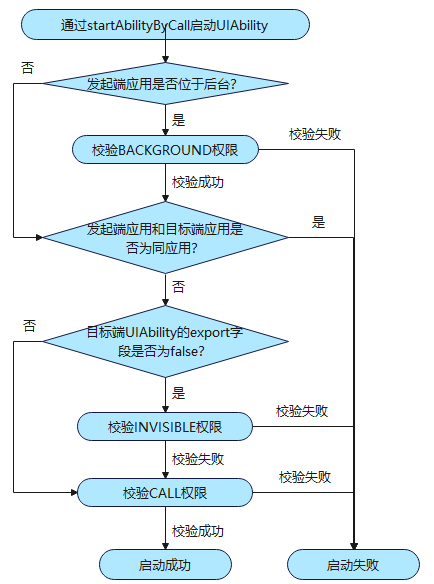
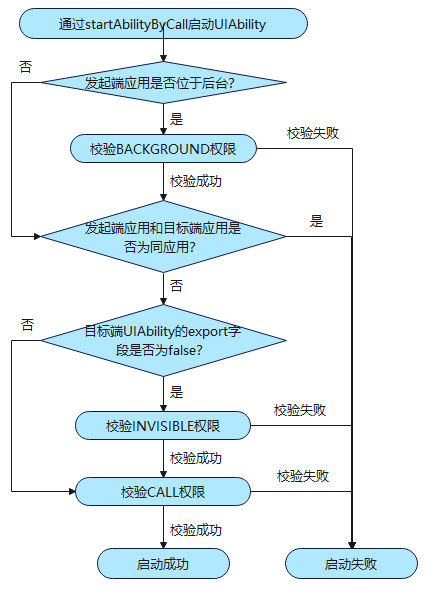
modify

Changed region(s): [[0.0301, 0.0, 0.9931, 1.0], [0.6921, 0.0308, 0.7222, 0.0616]]

diff --git a/zh-cn/application-dev/application-models/app-restart.md b/zh-cn/application-dev/application-models/app-restart.md
@@ -28,7 +28,7 @@
 - 不支持3秒内重复调用重启接口。
 
 示例代码：
-<!-- @[restartapp_withoutWindow](https://gitcode.com/openharmony/applications_app_samples/blob/master/code/DocsSample/Ability/restartapp/entry/src/main/ets/pages/Index.ets) -->
+<!-- @[restartapp_withoutWindow](https://gitcode.com/openharmony/applications_app_samples/blob/master/code/DocsSample/Ability/restartapp/entry/src/main/ets/pages/Index.ets) --> 
 
 ``` TypeScript
 import { hilog } from '@kit.PerformanceAnalysisKit';
@@ -53,12 +53,11 @@ struct Index {
         .onClick(() => {
           // 指定当前UIAbility
           let want: Want = {
-            bundleName: 'com.example.myapplication',
+            bundleName: 'com.example.restartapp',
             abilityName: 'EntryAbility'
           };
           if (this.context) {
             try {
-              // 触发want指定的UIAbility重启
               this.context.restartApp(want);
             } catch (err) {
               hilog.error(0x0000, 'testTag', `restart failed: ${err.code}, ${err.message}`);
@@ -86,7 +85,7 @@ struct Index {
 示例代码：
 
 1. 指定当前UIAbility，重启后刷新当前窗口至初始状态。
-   <!-- @[restartapp_withOldWindow](https://gitcode.com/openharmony/applications_app_samples/blob/master/code/DocsSample/Ability/restartapp/entry/src/main/ets/pages/Index2.ets) -->
+   <!-- @[restartapp_withOldWindow](https://gitcode.com/openharmony/applications_app_samples/blob/master/code/DocsSample/Ability/restartapp/entry/src/main/ets/pages/Index2.ets) --> 
 
    ``` TypeScript
    import { hilog } from '@kit.PerformanceAnalysisKit';
@@ -110,12 +109,11 @@ struct Index {
            .onClick(async () => {
              // 指定当前UIAbility，刷新当前窗口
              let want: Want = {
-               bundleName: 'com.example.myapplication',
+               bundleName: 'com.example.restartapp',
                abilityName: 'EntryAbility'
              };
              let context = this.getUIContext().getHostContext() as common.UIAbilityContext;
              try {
-               // 触发want指定的UIAbility重启
                await context.restartApp(want);
                hilog.info(0x0000, 'testTag', 'restart success');
              } catch (err) {
@@ -130,7 +128,7 @@ struct Index {
    ```
 
 2. 指定应用内其他UIAbility，重启后跳转并打开新的Ability窗口。
-   <!-- @[restartapp_withNewWindow](https://gitcode.com/openharmony/applications_app_samples/blob/master/code/DocsSample/Ability/restartapp/entry/src/main/ets/pages/Index3.ets) -->
+   <!-- @[restartapp_withNewWindow](https://gitcode.com/openharmony/applications_app_samples/blob/master/code/DocsSample/Ability/restartapp/entry/src/main/ets/pages/Index3.ets) --> 
 
    ``` TypeScript
    import { hilog } from '@kit.PerformanceAnalysisKit';
@@ -154,14 +152,13 @@ struct Index {
            .onClick(async () => {
              // 指定应用内其他UIAbility，跳转到新窗口
              let want: Want = {
-               bundleName: 'com.example.myapplication',
+               bundleName: 'com.example.restartapp',
                abilityName: 'SecondAbility'
              };
              let context = this.getUIContext().getHostContext() as common.UIAbilityContext;
              try {
-               // 触发want指定的UIAbility重启
                await context.restartApp(want);
-               hilog.info(0x0000, 'testTag', 'restart to new page success');
+               hilog.info(0x0000, 'testTag', 'restart success');
              } catch (err) {
                hilog.error(0x0000, 'testTag', `restart failed: ${err.code}, ${err.message}`);
              }

diff --git a/zh-cn/application-dev/application-models/component-startup-rules-inner-device-sys.md b/zh-cn/application-dev/application-models/component-startup-rules-inner-device-sys.md
@@ -50,7 +50,7 @@
    ![component-startup-rules-inner-device-sys](figures/component-startup-rules-inner-device-sys.png)
 
 
-   通过[startAbilityByCall()](../reference/apis-ability-kit/js-apis-inner-application-uiAbilityContext.md#startabilitybycall)接口跨应用启动UIAbility组件时，需要具备两个条件：1.申请ohos.permission.ABILITY_BACKGROUND_COMMUNICATION（下文简称CALL）权限，权限的申请方式请参考[声明权限](../security/AccessToken/declare-permissions.md)；2.目标UIAbility组件的exported为true，若申请ohos.permission.START_INVISIBLE_ABILITY（下文简称INVISIBLE）权限，可不受该条规则约束，权限的申请方式请参考[声明权限](../security/AccessToken/declare-permissions.md)。
+   通过[startAbilityByCall()](../reference/apis-ability-kit/js-apis-inner-application-uiAbilityContext.md#startabilitybycall)接口跨应用启动UIAbility组件时，需要具备两个条件：1.申请ohos.permission.ABILITY_BACKGROUND_COMMUNICATION（下文简称CALL）权限，权限的申请方式请参考[声明权限](../security/AccessToken/declare-permissions.md)；2.目标UIAbility组件的exported为true（若申请INVISIBLE权限，可不受该条规则约束，权限的申请方式请参考[声明权限](../security/AccessToken/declare-permissions.md)）。
 
    | 应用状态 | 组件可见性     | 权限要求                                  |
    | -------- | -------------- | ----------------------------------------- |